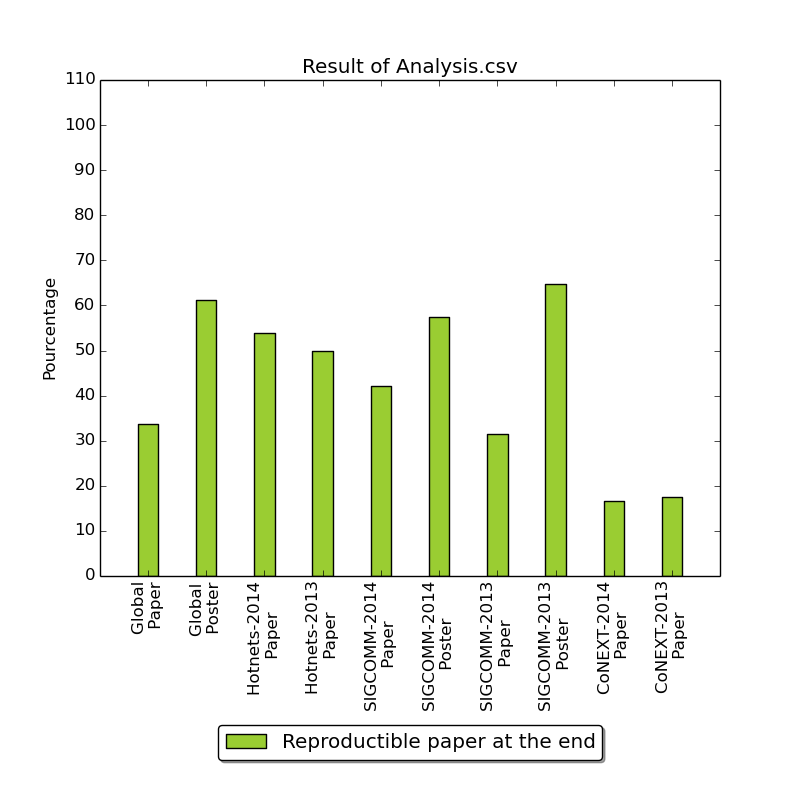
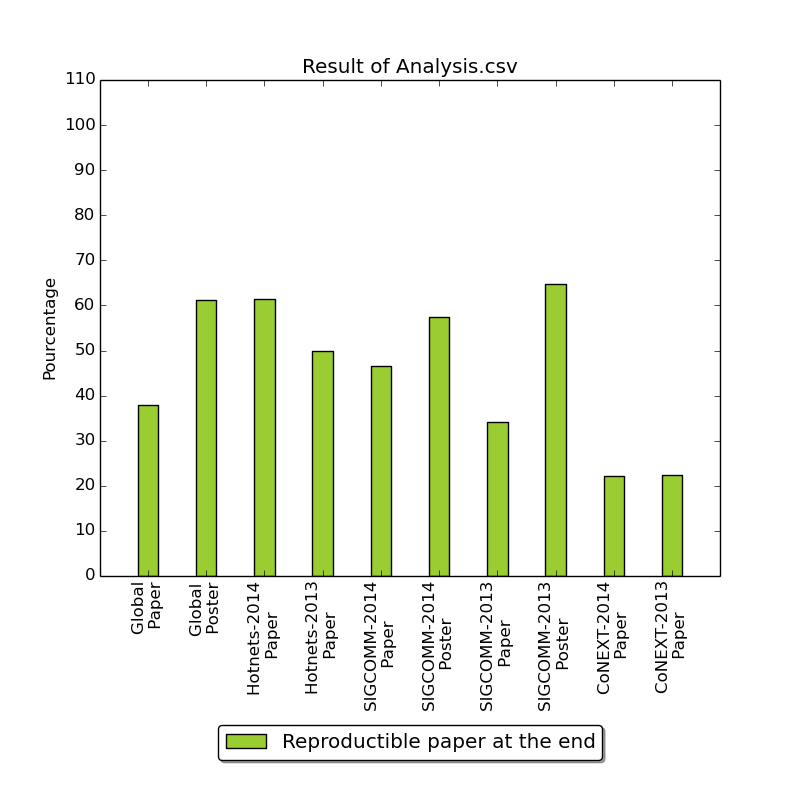
Add log to have unclassify paper

diff --git a/stat/stat.py b/stat/stat.py
@@ -202,6 +202,12 @@ def writer(sizes, legendes, pond, names, f_name):
 # |____/ \__\__,_|\__|
                     
 
+def counting(fct, li) :
+    cnt = count(fct, li)
+    tmp = filter(lambda x : not fct(x), li)
+    
+    return tmp,cnt
+
 
 if( len(sys.argv[1]) < 3 ) :
     print 'Need CSV file path and STAT directory in argument'
@@ -231,6 +237,7 @@ base = filter( lambda (x, l) : len(x) != 0, base)
 i=0
 
 nPaper      = []
+
 nReferenced = []
 nNoSoftware = []
 nNoReply    = []
@@ -238,32 +245,67 @@ nReply      = []
 
 nGiveRef    = []
 nWork       = []
+nPartial    = []
 nPrivate    = []
 
 names       = []
-graphNames       = []
+graphNames  = []
+
+log = open("stat/log", 'w')
 
 for (ps, n) in base :
     nPaper.append(len(ps))
 
     # First graph
-    nReferenced.append(count(lambda p: COMPLET in p.infos[PINFO], ps) )
-    nNoSoftware.append(count(lambda p: SELF in p.infos[PINFO] or 
-                             HARD in p.infos[PINFO], ps) )
-    nReply     .append(count(lambda p: RESPONSE in p.infos[MAIL], ps) )
-    nNoReply   .append(count(lambda p: SEND in p.infos[MAIL] or
-                                     WAIT in p.infos[MAIL], ps) )
-
+    tmp, cnt = counting(lambda p: COMPLET in p.infos[PINFO], ps)
+    nReferenced.append(cnt)
+    tmp, cnt = counting(lambda p: SELF in p.infos[PINFO] or 
+                             HARD in p.infos[PINFO], tmp)
+    nNoSoftware.append(cnt)
+    tmp, cnt = counting(lambda p: RESPONSE in p.infos[MAIL], tmp)
+    nReply     .append(cnt)
+    tmp, cnt = counting(lambda p: SEND in p.infos[MAIL] or
+                                     WAIT in p.infos[MAIL], tmp)
+    nNoReply   .append(cnt)
+    
+    log.write("Paper not classify in the first graph\n")
+    for test in tmp :
+        log.write("{}\n".format(test.infos[TITLE]))
 
     # Second graph
-    nGiveRef   .append(count(lambda p: COMPLET in p.infos[FINFO] and
-                                RESPONSE in p.infos[MAIL], ps) )
-    nWork      .append(count(lambda p: WORK in p.infos[FINFO], ps) )
-    nPrivate   .append(count(lambda p: WORK not in p.infos[FINFO] and 
-                                (   PRIVATE in p.infos[CODE] or
+    tmp = filter(lambda p: RESPONSE in p.infos[MAIL], ps)
+                            
+    tmp, cnt = counting(lambda p: COMPLET in p.infos[FINFO] and
+                                RESPONSE in p.infos[MAIL], tmp)
+    nGiveRef.append(cnt)
+    tmp, cnt = counting(lambda p: WORK in p.infos[FINFO], tmp)
+    nWork.append(cnt)
+    tmp, cnt = counting(lambda p: WORK not in p.infos[FINFO] and 
+                            (
+                                    PUBLIC not in p.infos[SCRIPT] and
+                                    NONEED not in p.infos[SCRIPT] and
+                                    PUBLIC in p.infos[CODE]  
+                                        or
+                                    PUBLIC not in p.infos[CODE] and
+                                    NONEED not in p.infos[CODE] and
+                                    PUBLIC in p.infos[SCRIPT] 
+                            ) , tmp ) 
+
+    nPartial.append(cnt)
+
+    tmp, cnt = counting(lambda p: WORK not in p.infos[FINFO] and 
+                                ( ( PRIVATE in p.infos[CODE] or
                                      UNAVAI in p.infos[CODE] or
+                                     NONEED in p.infos[CODE] ) and (
                                      PRIVATE in p.infos[SCRIPT] or
-                                     UNAVAI in p.infos[SCRIPT] ) , ps) )
+                                     UNAVAI in p.infos[SCRIPT] ) ) , tmp)
+    nPrivate.append(cnt)
+
+
+    log.write("\n\nPaper not classify in the second graph\n")
+    for test in tmp :
+        log.write("{}\n".format(test.infos[TITLE]))
+
 
     names.append("{} - {}".format(n, ps[0].infos[TYPE]))
     graphNames.append("{} \n {}".format(n, ps[0].infos[TYPE]))
@@ -281,10 +323,10 @@ writer(gSizes, gNames, gPond, names, "{}/global-result.csv".format(STAT_DIR))
 i+=1
 
 # Plot second
-gSizes  = [nGiveRef, nWork, nPrivate]
-gNames  = ['Give software reference', 'Work to make public release', 'No software or no script available']
+gSizes  = [nGiveRef, nWork, nPartial, nPrivate]
+gNames  = ['Give software reference', 'Work to make public release', 'Some reference', 'No reference given']
 gPond   = map(lambda x: 100.0/x, nReply)
-gColors = ['yellowgreen', 'lightskyblue', 'lightcoral']
+gColors = ['yellowgreen', 'lightskyblue', 'sandybrown', 'lightcoral']
 
 oneBars(i, gSizes, gPond, gColors, gNames, graphNames, "Result of Analysis.csv", 
                 "{}/mail-analysis.png".format(STAT_DIR))
@@ -302,3 +344,4 @@ oneBars(i, gSizes, gPond, gColors, gNames, graphNames, "Result of Analysis.csv",
                 "{}/final-analysis.png".format(STAT_DIR))
 writer(gSizes, gNames, gPond, names, "{}/final-result.csv".format(STAT_DIR))
 
+log.close()
